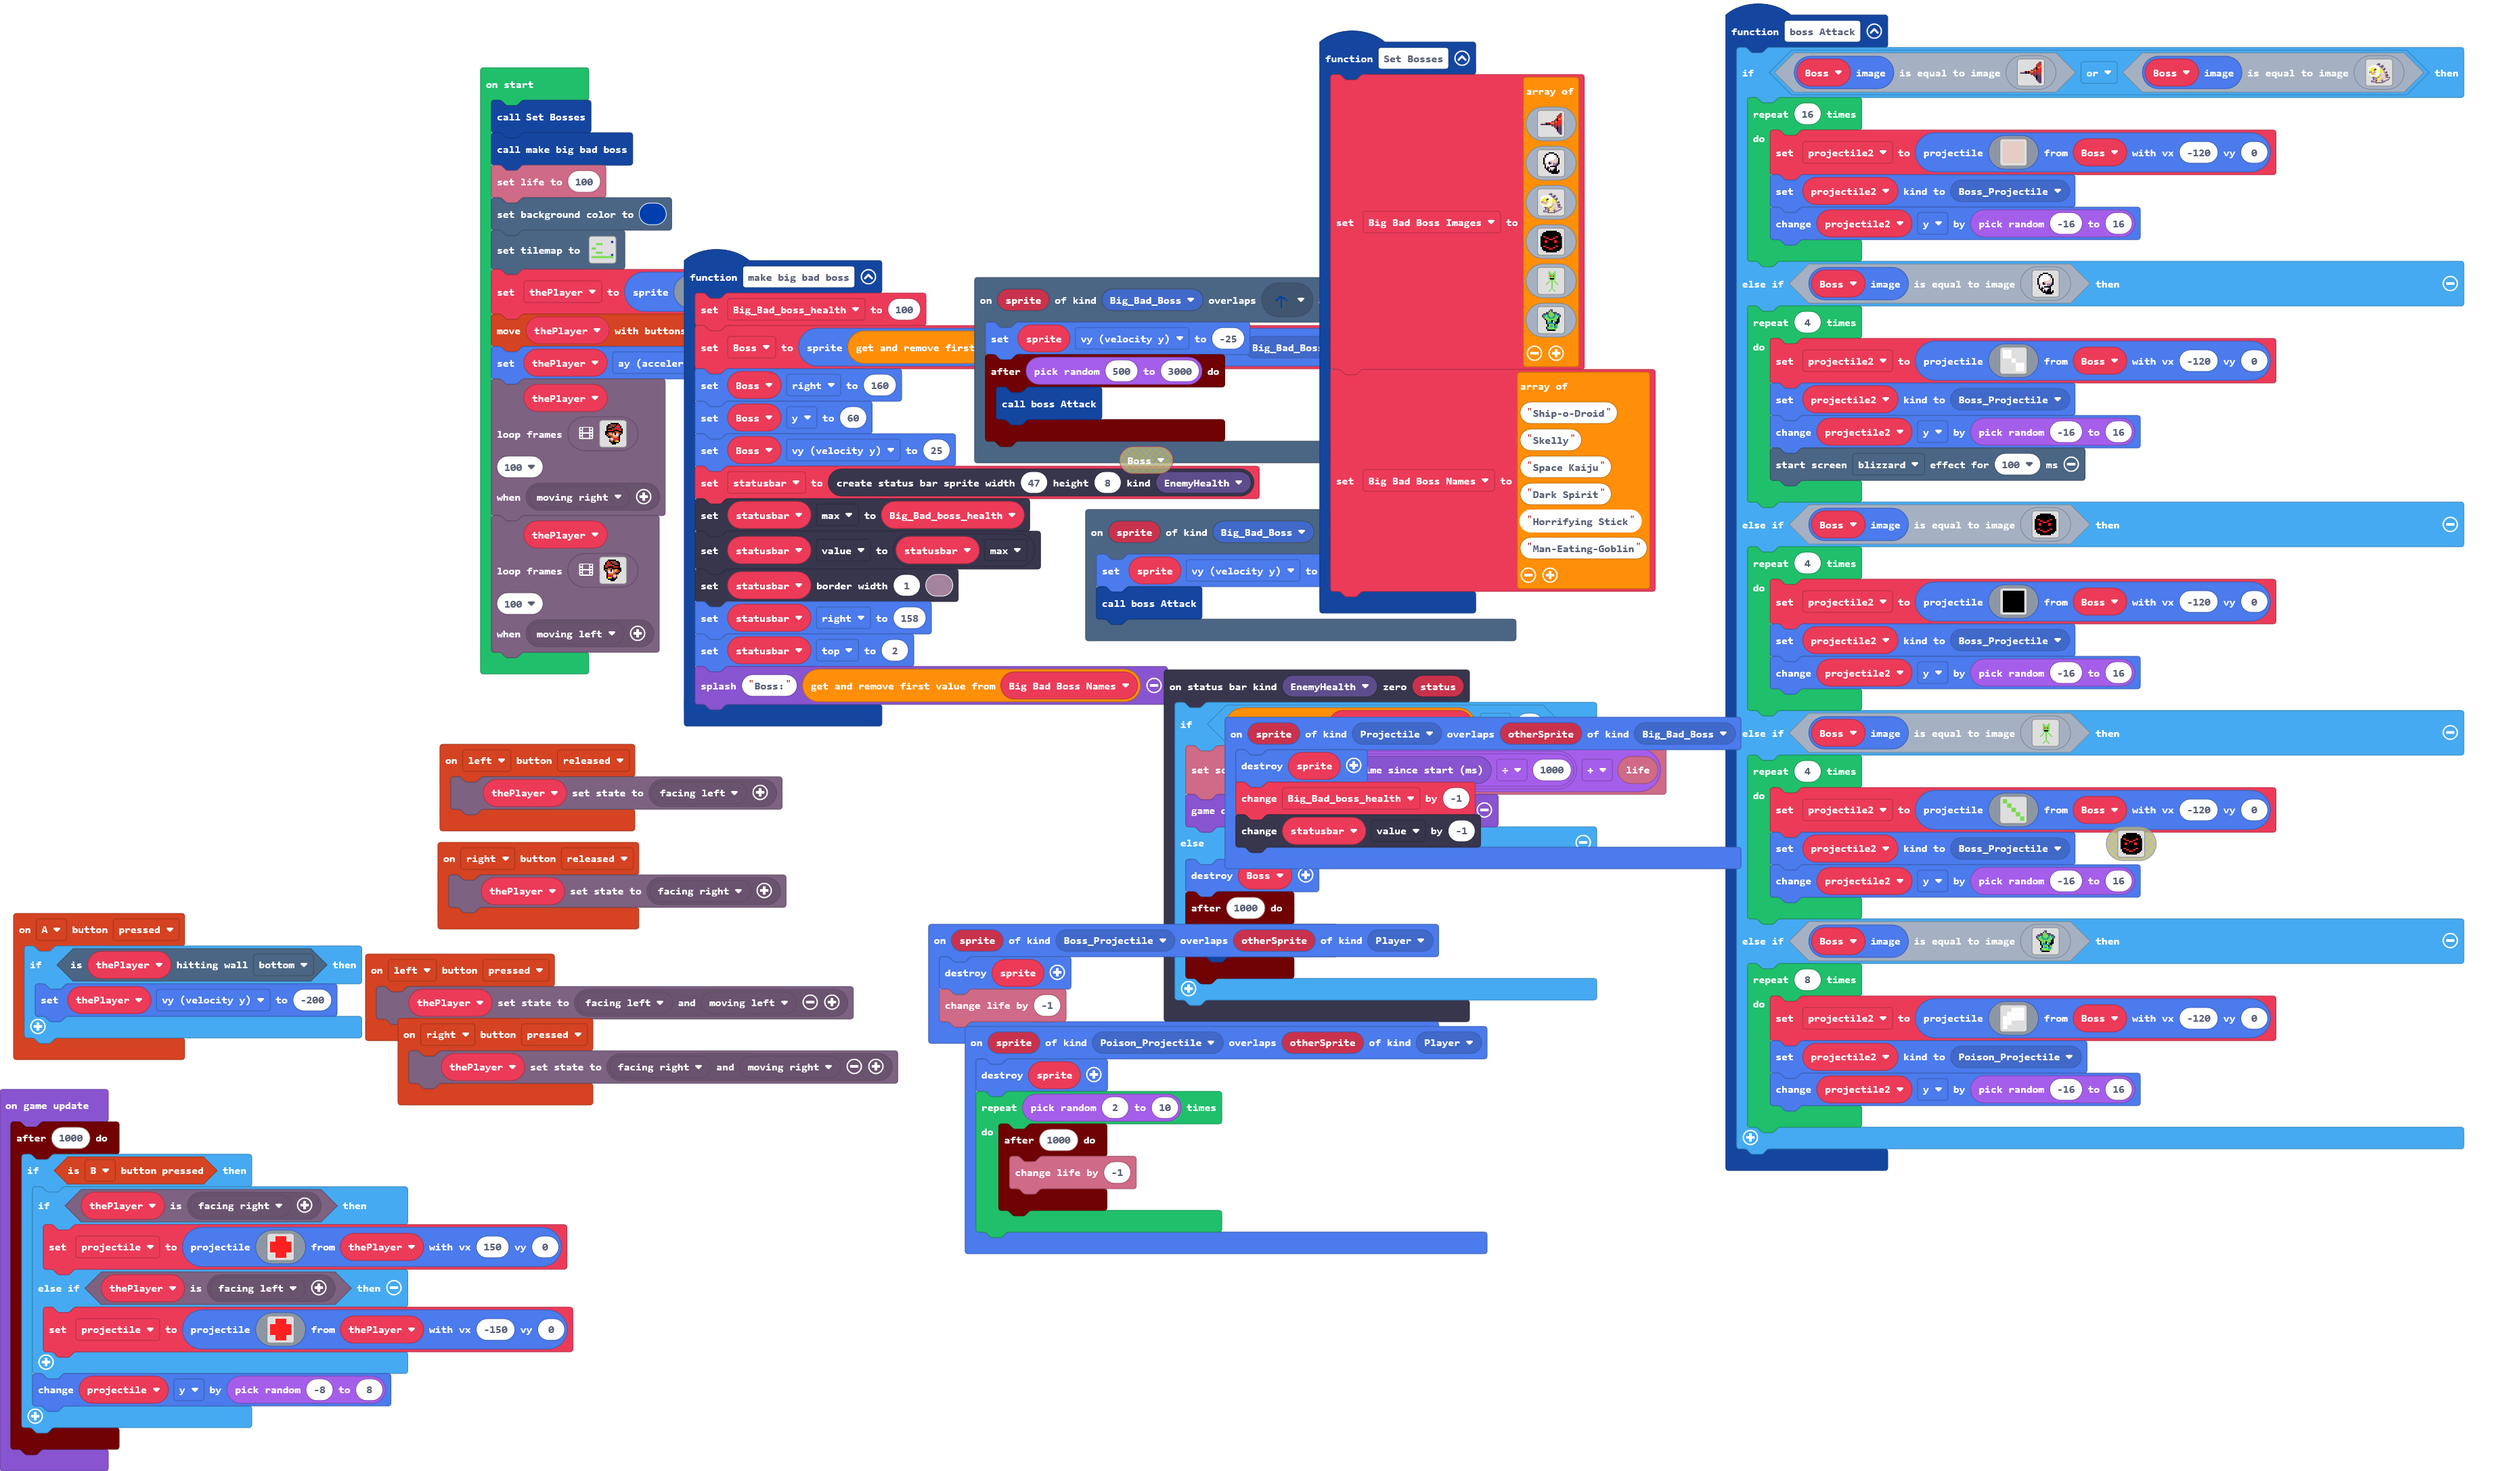
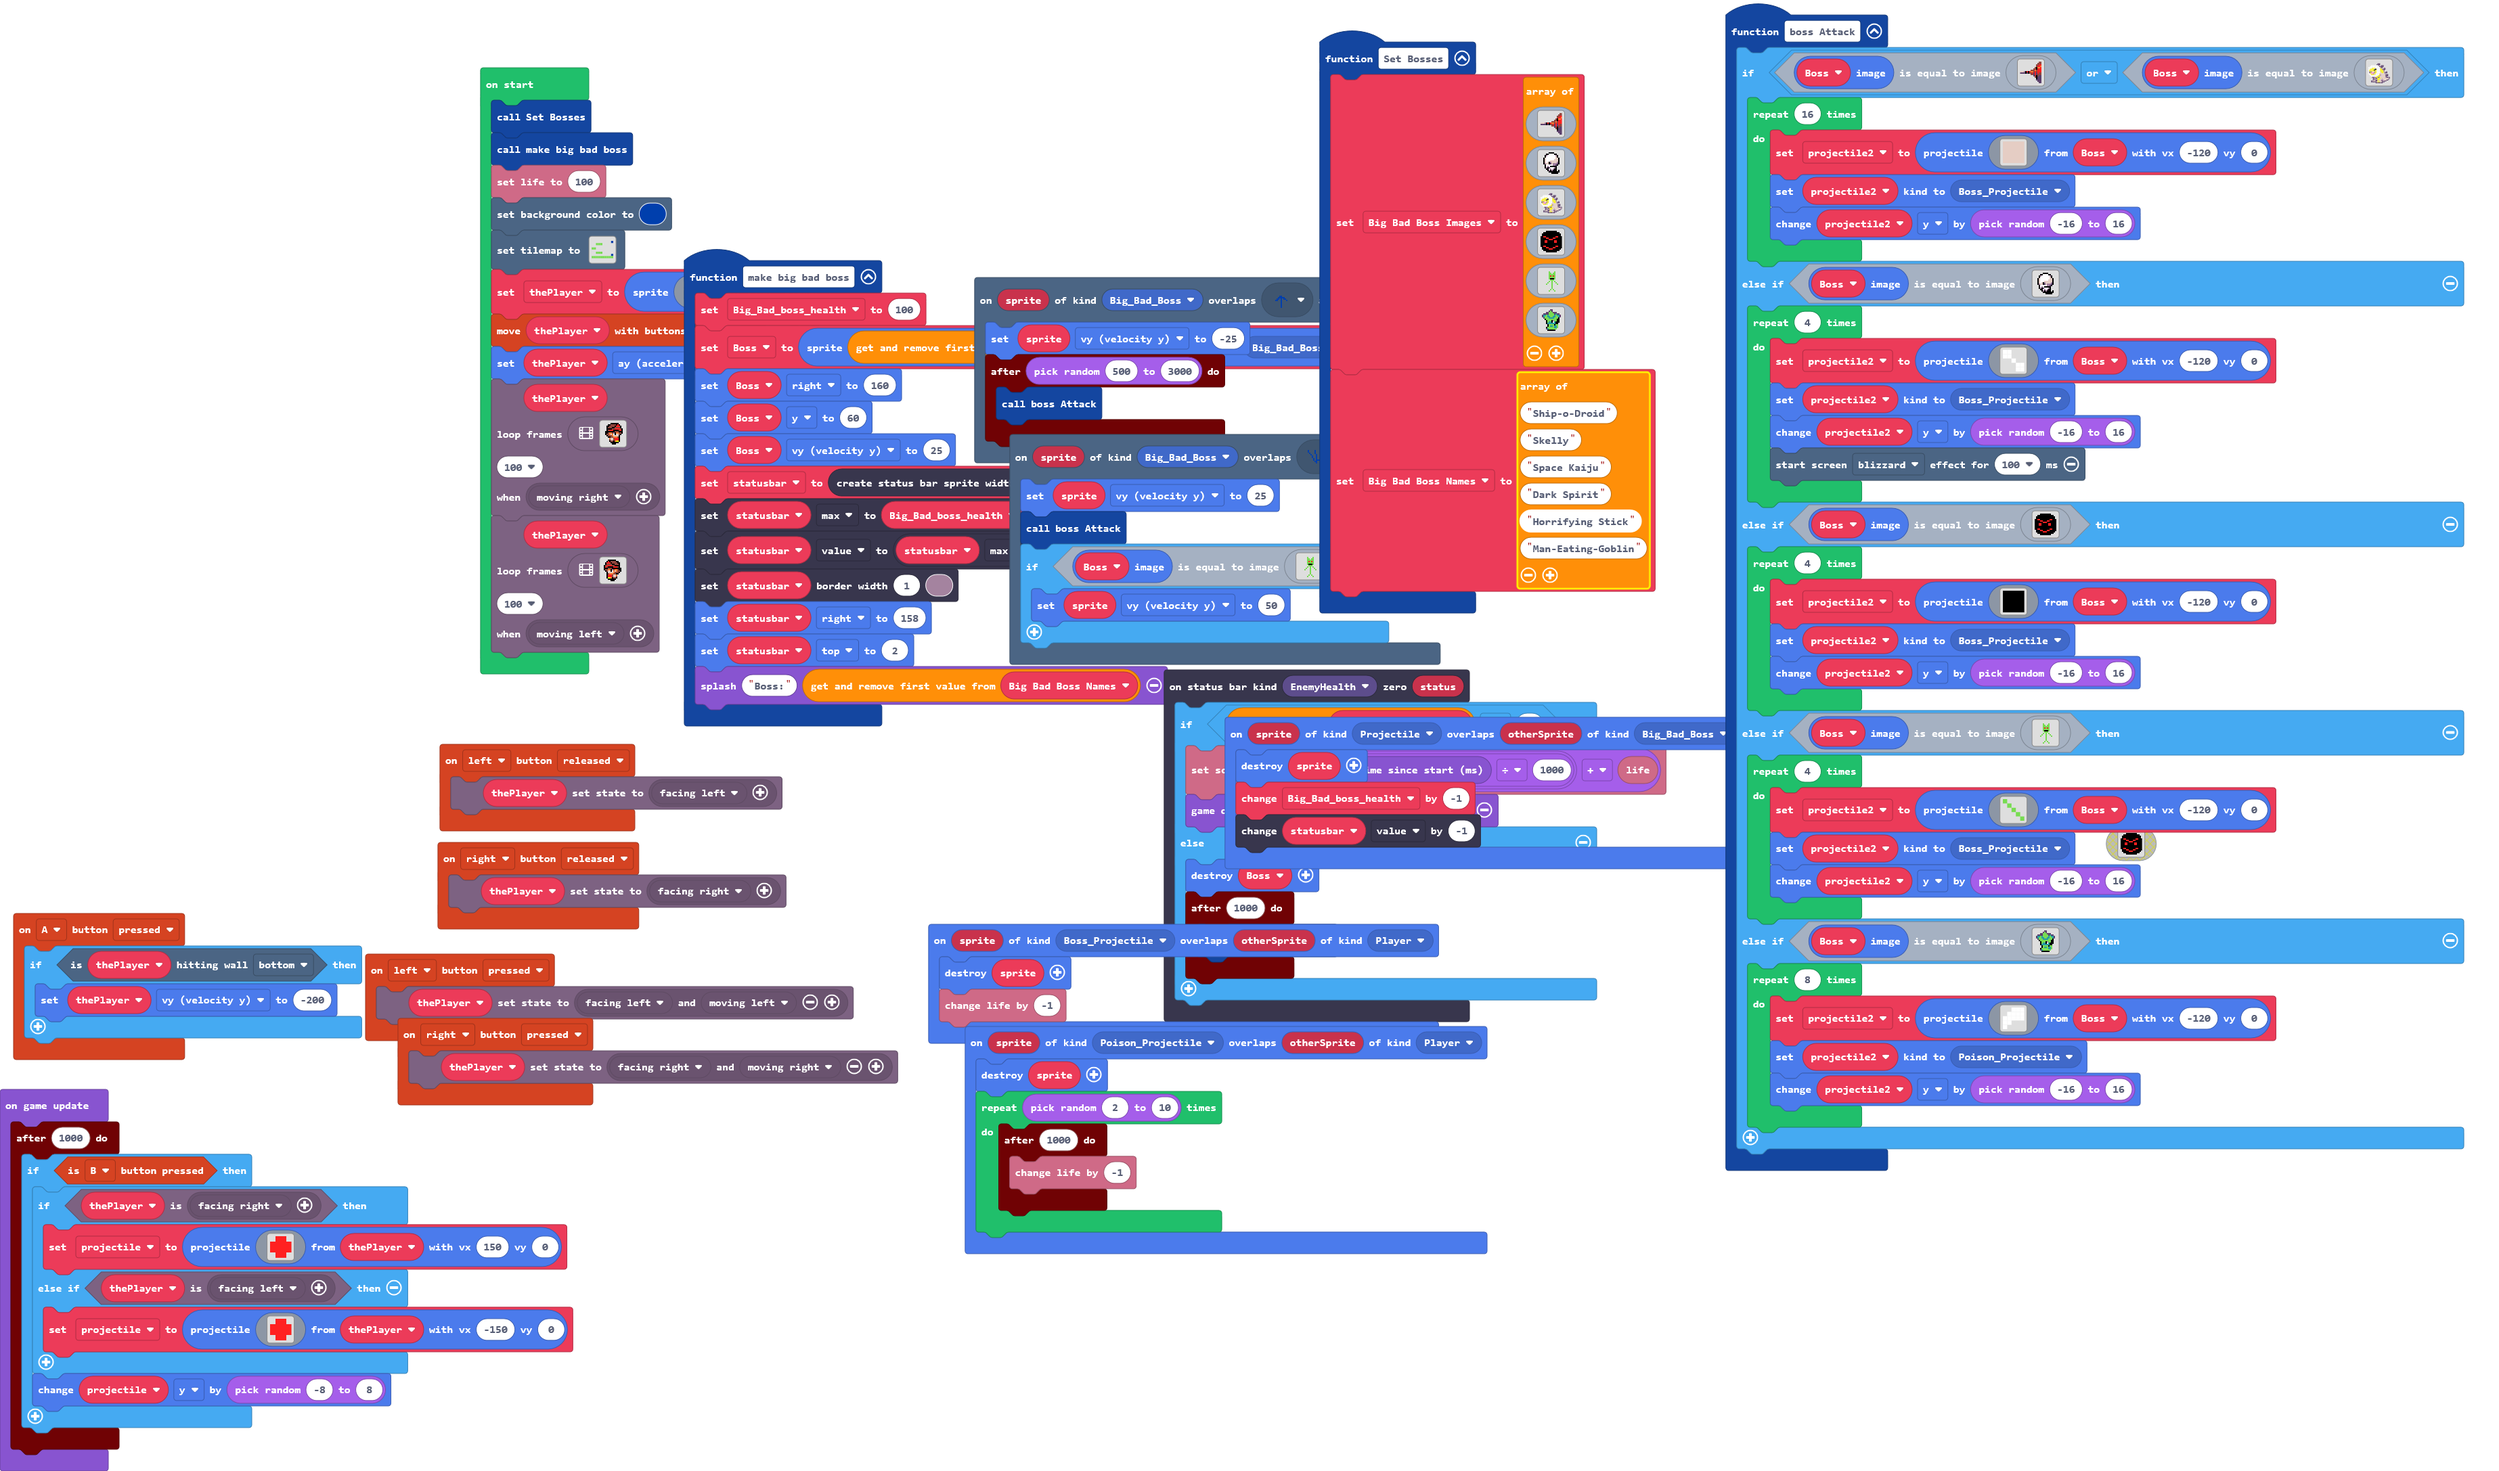
added another fix for the Horrifying Stick attack

Changed region(s): [[0.4049, 0.2774, 0.623, 0.4623], [0.6853, 0.4931, 0.7164, 0.5239]]

diff --git a/main.ts b/main.ts
@@ -356,6 +356,26 @@ function boss_Attack () {
 scene.onOverlapTile(SpriteKind.Big_Bad_Boss, assets.tile`myTile1`, function (sprite, location) {
     sprite.vy = 25
     boss_Attack()
+    if (Boss.image.equals(img`
+        . . . . . . . . . . . . . . . . 
+        . . . . . . 7 . . . 7 . . . . . 
+        . . . . . . 7 7 . 7 7 . . . . . 
+        . . . . . . 7 7 7 7 7 . . . . . 
+        . . . . . . 7 2 7 2 7 . . . . . 
+        . . . . . . 7 7 7 7 7 . . . . . 
+        . . . . . . 7 f f f 7 . . . . . 
+        . . . . . . . 7 7 7 . . . . . . 
+        . . . . . . 7 . 7 . 7 . . . . . 
+        . . . . . 7 . . 7 . . 7 . . . . 
+        . . . . 7 . . . 7 . . . 7 . . . 
+        . . . . . . . . 7 . . . . . . . 
+        . . . . . . . . 7 . . . . . . . 
+        . . . . . . . . 7 . . . . . . . 
+        . . . . . . . 7 . 7 . . . . . . 
+        . . . . . . 7 . . . 7 . . . . . 
+        `)) {
+        sprite.vy = 50
+    }
 })
 sprites.onOverlap(SpriteKind.Projectile, SpriteKind.Big_Bad_Boss, function (sprite, otherSprite) {
     sprite.destroy()
